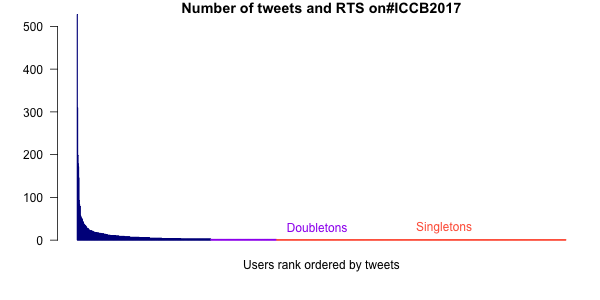
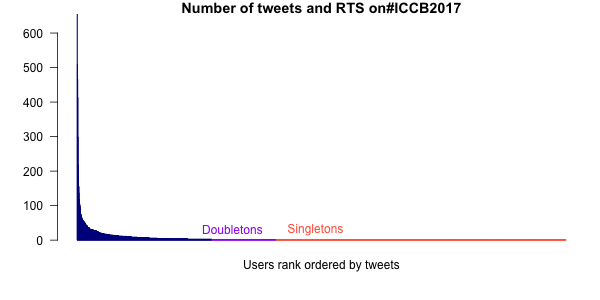
update tweet post

diff --git a/_posts/2017-07-25-ICCB2017-tweets.md b/_posts/2017-07-25-ICCB2017-tweets.md
@@ -9,15 +9,37 @@ published: TRUE
 
 Here's a brief analysis of tweets from the [International Congress for Conservation Biology](http://conbio.org/mini-sites/iccb-2017) to date. The conference started on the starting 23rd July I was curious to see what people are talking about there and who is doing the talking on twitter.
 
-As of 25th July I could access 6978 tweets and retweets from the conference, starting on 2017-07-15.
+I have updated this on 27th July (first post on 25th July. )
+
+As of 27th July I could access 13396 tweets and retweets from the conference, starting on 2017-07-18.
 
 If you are wondering how these stats compare to other conferences, check out my [post from ICRS](http://www.seascapemodels.org/research%20rstats/2016/06/27/ICRS-tweets.html) last year.
+
+### What people are saying
+
+Textual analysis is a bit of a dark art, but here is a word cloud of terms, word size is scaled by number of mentions. Words are stemmed so or instance 'biodiverse' and 'biodiversity' both appear below as 'biodivers'
+
+![](/Images/iccb2017-word-cloud.png)
+
+At this stage the location are still an imporant talking point with words like Colombia and Cartagena. Also predictably 'conservation' and 'biodiversity' are up there.
+
+It is interesting that 'need' features in a lot of tweets. Perhaps many people making calls for action?
+
+I think that words like "open", "join", "world", "come" hint at the inclusiveness of conservation conferences.
+
+There were a few more interesting words that have more than 100 mentions:
+"[taotaotasi](https://twitter.com/taotaotasi)" - the handle of Angelo Villagomez who recieved a distinguished service award from the Society for Conservation Biology.
+"shark" still is the most popular plant or animal group mentioned so far, likely due to the two top 5 tweets mentioned above.  But 'forest', 'bird' and 'fish' are also working their way up the list.
+
+
+Finally the stems for happy ("happi") and peace ("peac") and the word "love" were also very popular. Perhaps conservation scientist is getting back to its 1960s origins?
+
 
 ### Who is talking
 
 You might see twitter stats reported after conferences that look phenomenal, like 'millions saw our posts', but it is worth digging down to see how many people had substantial interaction with the conference's feed.
 
-If we count the number of twitter users that have tweeted or RTed (re-tweet) #ICCB2017 posts, then there are 1518. Of those about 1/3 (526) have written an original tweet. If we only consider tweeters that have made >5 tweets, then we have only 118 people and organisations.
+If we count the number of twitter users that have tweeted or RTed (re-tweet) #ICCB2017 posts, then there are 2337. Of those about 1/3 (690) have written an original tweet. If we only consider tweeters that have made >5 tweets, then we have only 222 people and organisations.
 
 Clearly, the people talking on twitter are a biased selection of people at ICCB2017 and may also include people not there (like me). As usual, a lot people only tweet once or twice.
 
@@ -25,63 +47,42 @@ Clearly, the people talking on twitter are a biased selection of people at ICCB2
 
 The users doing the most tweeting are (in order of most to least with number of tweets):
 
-@IbuAnggrek	528, @ICCB2017	310, @AzurigenMCS	199, @WhySharksMatter	179, @rebecca_jarvis	172,
-@CarlaWildlife	146, @WILDLABSNET	93, @Society4ConBio	84, @FancyScientist	80,
-@davila_federico	79
+Handle|# of tweets
+------|-----------
+IbuAnggrek|654
+ICCB2017|509
+AzurigenMCS|466
+rebecca_jarvis|413
+WhySharksMatter|299
+CarlaWildlife|218
+ultimatemegs|186
+FancyScientist|156
+MattTietbs47|155
+Society4ConBio|137
 
 ### Most popular tweets
 
 Here is a table of the most popular tweets, by their RT count:
 
-Rank|Name|text|Retweet count
-----|-------------|------|---------------
-1|WhySharksMatter|Angler gives up chance at world record, releases huge blacktip shark alive. #ICCB2017 #SharkWeek (from 2014) https://t.co/dwmiAeSXQW https://t.co/74SyQ6Uhfk|96
-2|eguerreroforero|@Brigittelgb en #ICCB2017: A los países megadiversos nos llaman 'megadispersos' porq no hemos logrado posicionar políticamente biodiversidad https://t.co/u43dVvcjHO|65
-3|HugePossum|Australia's proposed marine parks have never been science based - bad planning for nature and people #ICCB2017 https://t.co/rZXAueuod6|64
-4|ICCB2017|#ICCB2017 attendees - there are sloths in El Parque Centenario near the convention center! #UrbanWildlife https://t.co/81YktjU4Mu|59
-5|Seasaver|UN Patron of Oceans calls for ban on tournaments which kill threatened sharks https://t.co/P5KmUxBte3 #ICCB2017 @TheIGFA #sportfishing|40
+Handle|Tweet|# retweets
+------|-----|----------
+WhySharksMatter|Angler gives up chance at world record, releases huge blacktip shark alive. #ICCB2017 #SharkWeek (from 2014) https://t.co/dwmiAeSXQW https://t.co/74SyQ6Uhfk|96
+eguerreroforero|@Brigittelgb en #ICCB2017: A los países megadiversos nos llaman 'megadispersos' porq no hemos logrado posicionar políticamente biodiversidad https://t.co/u43dVvcjHO|93
+HugePossum|Australia's proposed marine parks have never been science based - bad planning for nature and people #ICCB2017 https://t.co/rZXAueuod6|70
+ICCB2017|#ICCB2017 attendees - there are sloths in El Parque Centenario near the convention center! #UrbanWildlife https://t.co/81YktjU4Mu|60
+NathanJBennett|How can the conservation social sciences improve conservation? Today at 11:30am in Sala 304 at #ICCB2017 Paper here https://t.co/WAYzpvoXQv https://t.co/WVLS4y2Wj7|52
+cyclonewatson|A slight messaging problem- release of iPhone is hundreds of times more read about than global loss of coral reefs! #iccb2017 https://t.co/6hbfrCPNu1|42
+NathanJBennett|There are still significant barriers to mainstreaming the social sciences in conservation-&gt;Today at #ICCB2017 Paper: https://t.co/nnyhYxb3gk https://t.co/2dGeEPt46y|41
+Seasaver|UN Patron of Oceans calls for ban on tournaments which kill threatened sharks https://t.co/P5KmUxBte3 #ICCB2017 @TheIGFA #sportfishing|41
+rebecca_jarvis|Are we really including everybody's voices and needs in our conservation decisions and actions? #ICCB2017 #ICCB2017equity https://t.co/BmV7tzgzjV|37
+action4ifaw|IFAW looks forward to joining youth conservation partners at the Millennials in Conservation workshop this Tuesday at #ICCB2017! https://t.co/cZZ5XVIFhF|35
 
-I like that sloths are right up there at number 4 at the moment. Marine science topics are also pretty popular. Tweets by well known people (e.g. Chief Scientist of The Nature Conservancy, Hugh Possigham) and organisations (e.g. ICCB) are more likely to become more popular. Also, those that link to topical news items (e.g. marine park policy in Australia and fishing of sharks) are also more likely to reach an audience much broader than the ICCB2017 attendees.
+I like that sloths in the park are right up there. Marine science topics are also pretty popular. Tweets by well known people (e.g. Chief Scientist of The Nature Conservancy, Hugh Possigham) and organisations (e.g. ICCB) are more likely to become more popular. Also, those that link to topical news items (e.g. marine park policy in Australia and fishing of sharks) are also more likely to reach an audience much broader than the ICCB2017 attendees.
 
-I like the tweet written in Spanish, which comes via a Colombian. I think it translates to (thanks google translate and a friend): "Megadiverse countries call us mega-scattered because we have failed to politically position biodiversity". [Tweet me](https://twitter.com/bluecology) if I have this wrong.  
+I like the tweet written in Spanish, which comes via a Colombian. I think it translates to (thanks google translate and a friend): "Megadiverse countries call us mega-scattered because we have failed to politically position biodiversity". [Tweet me](https://twitter.com/bluecology) if I have this wrong.
 
-### What people are saying
+Finally, there are a fair few tweets about communicating the urgency of conservation issues to the public and failure to do so in the past. I think this is telling, it is an issue that is at the forefront of many attendees minds.
 
-Textual analysis is a bit of a dark art, but here are some of the most popular words appearing in tweets (with the number of tweets they appear in ). Words are stemmed so or instance 'biodiverse' and 'biodiversity' both appear below as 'biodivers'
-
-Term|Number of  tweets
-----|----------------
-iccb|6965
-conserv|1064
-amp|691
-colombia|477
-talk|467
-biodivers|411
-cartagena|380
-work|362
-will|323
-whysharksmatter|315
-societyconbio|304
-open|303
-great|298
-can|293
-come|292
-use|289
-conservation|287
-join|285
-need|248
-world|244
-
-At this stage the location is an imporant talking point with words like Colombia and Cartagena. Also predictably 'conservation' and 'biodiversity' are up there.
-
-It is interesting that 'need' features in a lot of tweets. Perhaps many people making calls for action?
-
-I think that words like "open", "join", "world", "come" hint at the inclusiveness of conservation conferences.
-
-There were a few more interesting words that didn't make my list above, but have more than 100 mentions:
-"[taotaotasi](https://twitter.com/taotaotasi)" - the handle of Angelo Villagomez who recieved a distinguished service award from the Society for Conservation Biology.
-"shark" is the most popular plant or animal group mentioned so far, likely due to the two top 5 tweets mentioned above.
-Finally the stems for happy ("happi") and peace ("peac") were also very popular.  Sounds like a fun conference.
 
 ### Time of tweets
 
